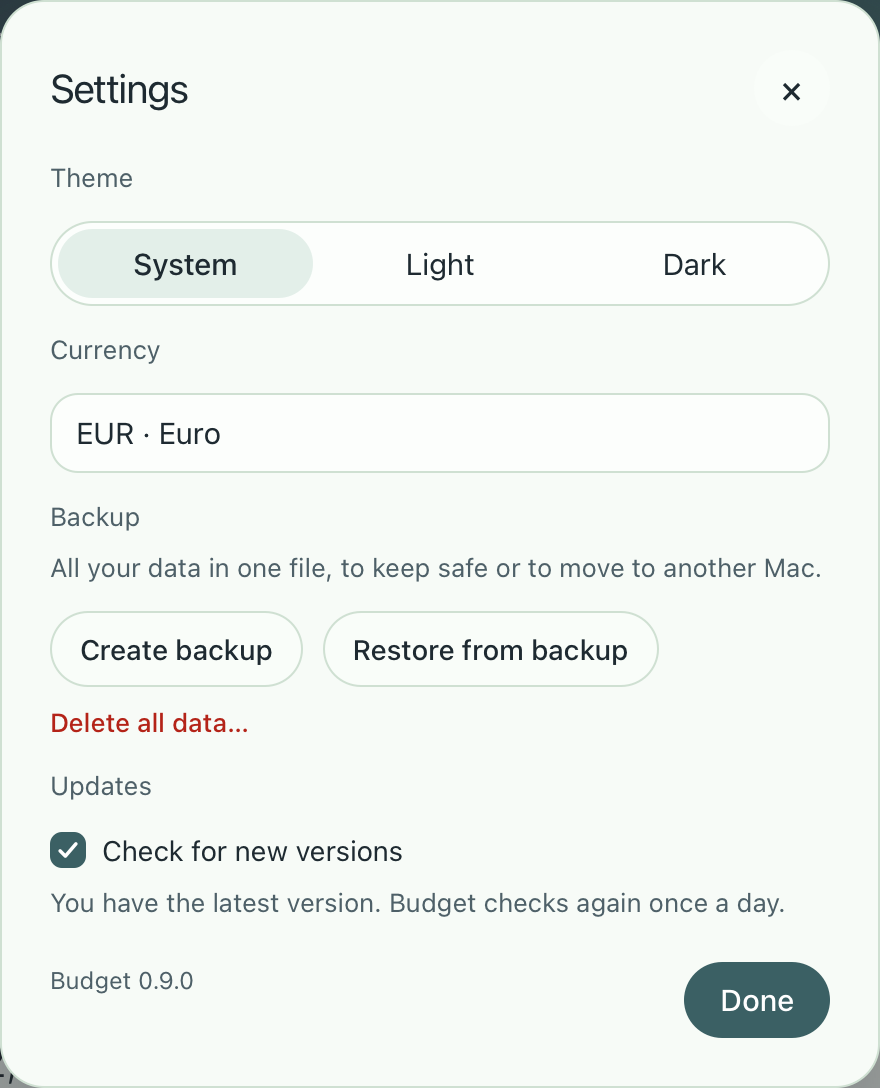
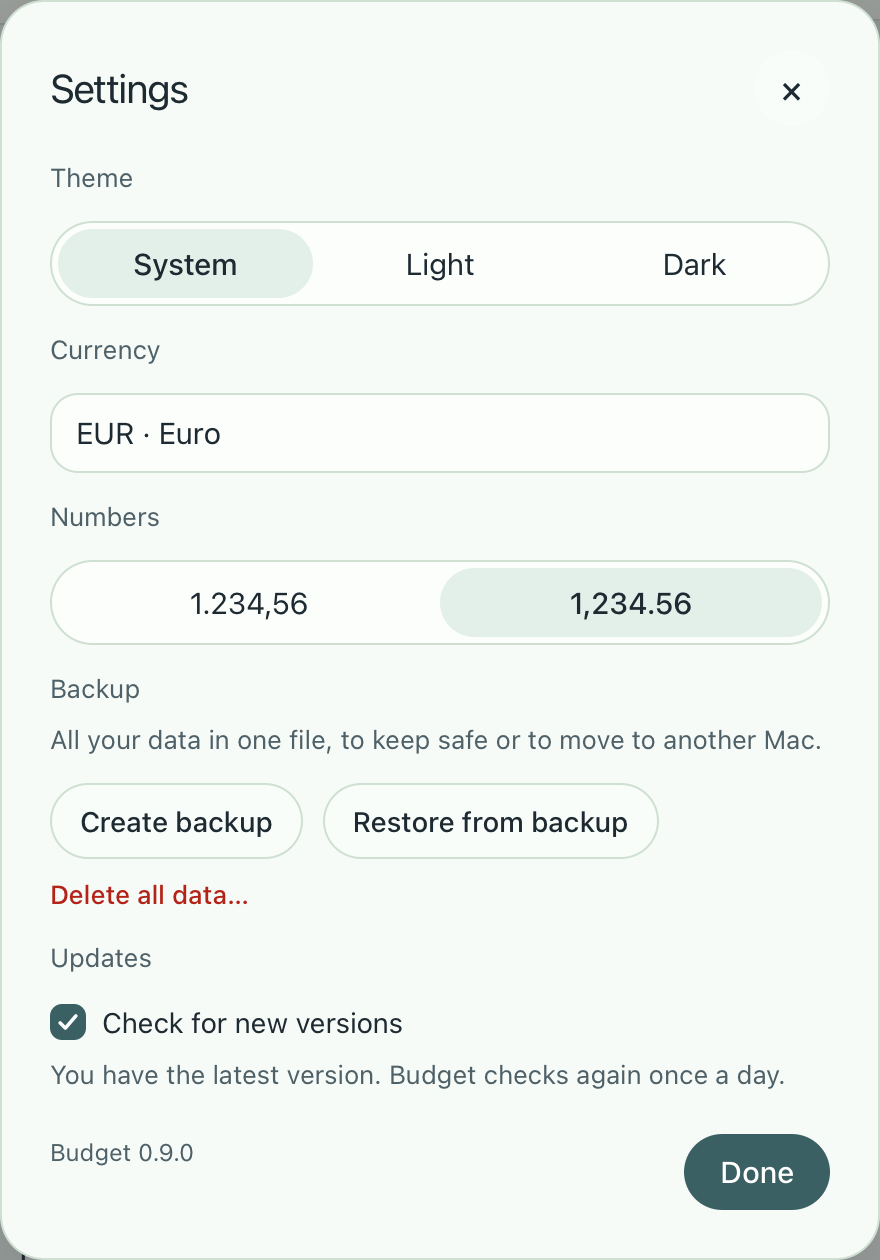
Describe the getting-started guide and number format; refresh screenshots

diff --git a/packaging/make_screenshots.py b/packaging/make_screenshots.py
@@ -16,7 +16,7 @@ sys.path.insert(0, str(ROOT))
 
 from playwright.sync_api import sync_playwright
 
-from app import VERSION, db, outlook, updates
+from app import VERSION, api, db, outlook, updates
 from app.demo import seed
 from app.web import make_server
 
@@ -221,6 +221,19 @@ NEWER = {"tag_name": "v9.9.0", "body": "- See how this month compares with the s
          "assets": [{"name": "Budget.dmg", "browser_download_url": "https://github.com/hendrikdemir/budget/releases"}]}
 
 
+def capture_guide(url):
+    """The getting-started guide, as a new user sees it after the first step."""
+    with sync_playwright() as p:
+        browser = p.webkit.launch()
+        page = browser.new_context(viewport={"width": 1000, "height": 800}, device_scale_factor=2,
+                                   color_scheme="light", locale="en-GB").new_page()
+        page.goto(url)
+        page.wait_for_selector("#guide:not([hidden]) .guide-step")
+        page.wait_for_timeout(600)
+        page.locator("#guide").screenshot(path=OUT / "guide.png")
+        browser.close()
+
+
 def fake_release(release):
     """Makes the update check see `release` instead of asking GitHub."""
     import json
@@ -273,6 +286,17 @@ def main():
         server = make_server(0)
         threading.Thread(target=server.serve_forever, daemon=True).start()
         capture(f"http://127.0.0.1:{server.server_address[1]}/")
+        server.shutdown()
+    # A new user's first steps: nothing but the balances yet.
+    with tempfile.TemporaryDirectory() as folder:
+        db.use_data_dir(Path(folder))
+        db.migrate()
+        with db.session() as conn:
+            for account, amount in (("bank", 250000), ("savings", 1160000)):
+                api.set_balance_start(conn, None, {"account": account, "amount": amount, "date": date.today().isoformat()}, None)
+        server = make_server(0)
+        threading.Thread(target=server.serve_forever, daemon=True).start()
+        capture_guide(f"http://127.0.0.1:{server.server_address[1]}/")
         server.shutdown()
     print(f"Saved screenshots to {OUT}")
 

diff --git a/README.md b/README.md
@@ -40,6 +40,7 @@ Your spending, what's left in each budget, and anything spent outside your budge
 - **Categories and items**, such as Home › Rent, Energy and Internet, or a single budget like Fun money.
 - **Budgets that change over time.** Raise the rent from next month and earlier months stay exactly as they were.
 - **Carry leftovers over** to next month, by default or case by case, and see how much came along.
+- **Split a budget into items later.** Turn Groceries into Food and Household from this month on; the months before keep the single budget they had.
 
 ### Add a transaction and see the effect first
 
@@ -92,7 +93,7 @@ Set a starting balance for your bank account and savings, and Budget keeps track
 
 <img src="docs/screenshots/history.png" alt="The History page: a year's income, spending and result, with the bank and savings balance per month">
 
-The History page shows a year at a glance: what came in, what went out and what was left, and how your bank account and savings developed, month by month. It starts at your starting point, so months before you began keeping track aren't shown.
+The History page shows a year at a glance: what came in, what went out and what was left, and how your bank account and savings developed, month by month. It starts at your starting point (or, without one, at your first transaction), so months before you began keeping track aren't shown.
 
 <img src="docs/screenshots/budget-history.png" alt="Each budget per month: a bar for what was spent of what there was, with the total spent of budgeted">
 
@@ -108,9 +109,9 @@ Add your expected income and planned costs, like a holiday or a new laptop, once
 
 ### Make it yours
 
-<img src="docs/screenshots/appearance.png" width="420" alt="Settings with theme, currency, backups and updates">
+<img src="docs/screenshots/appearance.png" width="420" alt="Settings with theme, currency, how numbers are written, backups and updates">
 
-Follow your Mac's light or dark mode, or choose one yourself, and pick your currency from every currency in the world.
+Follow your Mac's light or dark mode, or choose one yourself, and pick your currency from every currency in the world. Numbers are written the way your Mac writes them, or the way you choose: 1.234,56 or 1,234.56. Amounts you type, and the examples in messages, follow the same choice.
 
 ### Backups and moving to a new Mac
 
@@ -146,6 +147,12 @@ To update, quit Budget, download the new `Budget.dmg`, drag Budget to **Applicat
 
 Budget currently runs on Macs with Apple Silicon.
 
+### Getting started
+
+<img src="docs/screenshots/guide.png" alt="The getting-started guide: balances done, then budgets, a first transaction and expected income">
+
+A new Budget is empty. The Overview shows four steps to make it yours, in any order: enter your bank and savings balances, set up your budgets, add what you spend (by hand or from your bank), and add the income you expect. Each step is ticked off by itself, and the guide goes away when all four are done. **Hide** puts it away sooner.
+
 ## Your data
 
 Everything stays on your Mac, in `~/Library/Application Support/nl.hendrikdemir.budget`. Budget makes a backup automatically on each day you use it and keeps the last 14, in the `backups` folder there. You can restore them from **Settings → Restore from backup**. They're on the same Mac, so for a copy elsewhere, use **Create backup** or Time Machine.
@@ -170,7 +177,7 @@ python3 server.py
 
 Then open http://localhost:8000.
 
-Add `--demo` to try it with a made-up household, kept in `.demo-data/`.
+Add `--demo` to try it with a made-up household, kept in `.demo-data/`. Add `--empty` to see it as a new user does, without any data: it starts empty every time.
 
 To try the update check without a real release, point it at a made-up one:
 
